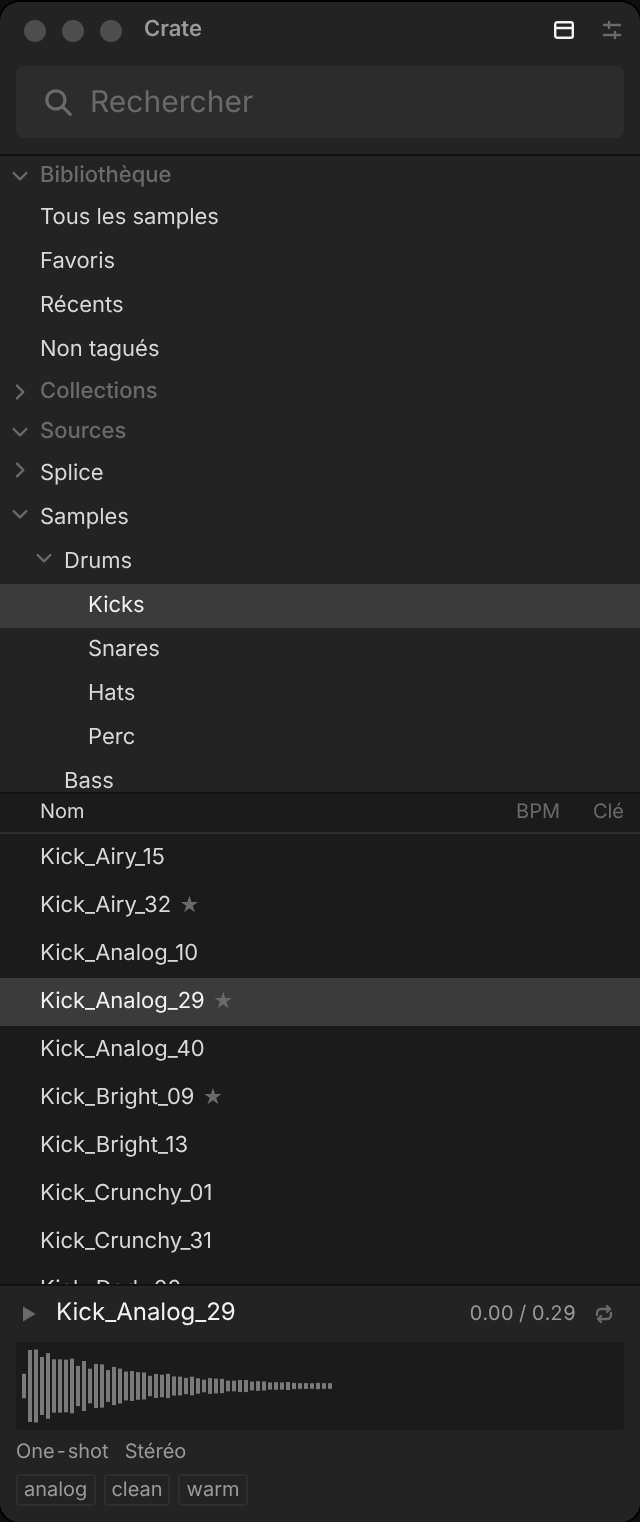
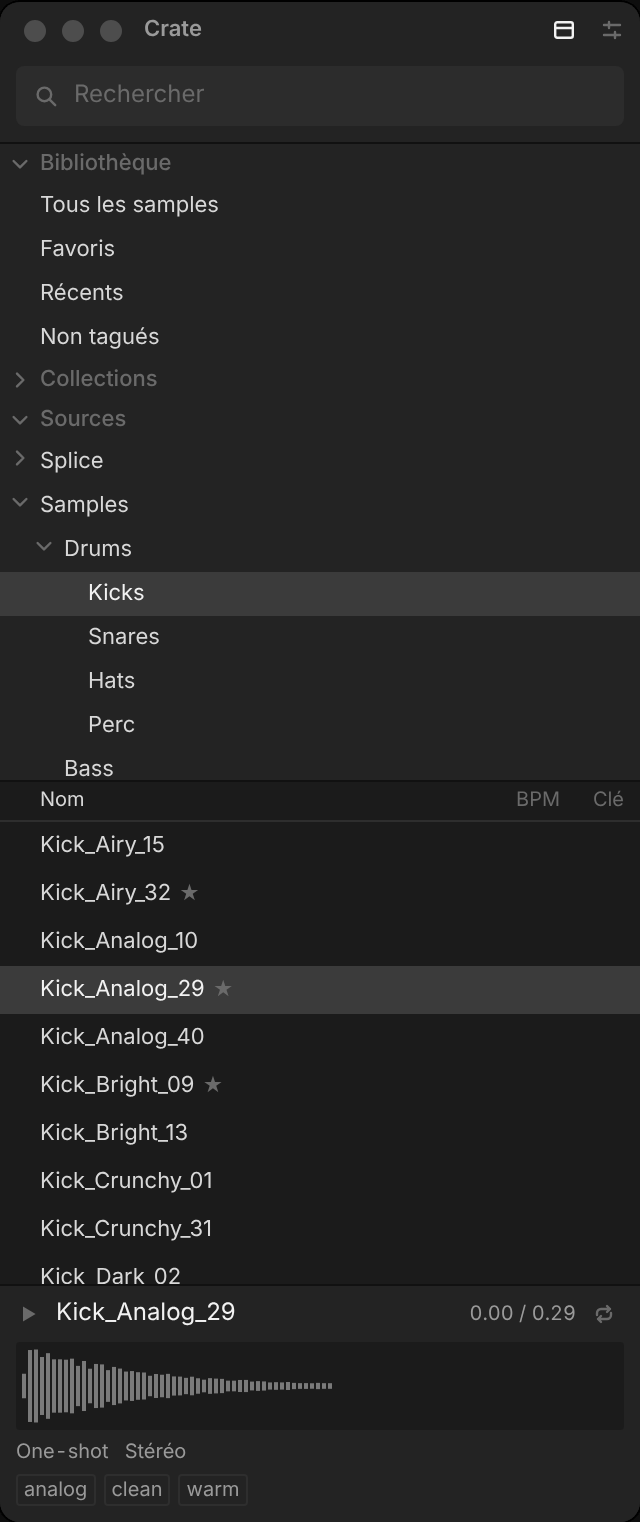
Champ de recherche : 30 px de haut, texte et chips à la taille d'origine
Claude-Session: https://claude.ai/code/session_01TPaLJq8a1d4maHTAR6REF2

Changed region(s): [[0.0, 0.0618, 1.0, 0.8647], [0.8125, 0.525, 0.875, 0.5558], [0.9375, 0.525, 0.9688, 0.5558]]

diff --git a/src/styles/tokens.css b/src/styles/tokens.css
@@ -83,7 +83,6 @@
   --cr-fs-sm: 11px;  /* lignes, items */
   --cr-fs-md: 12px;  /* recherche, titres du tiroir */
   --cr-fs-lg: 13px;  /* états vides */
-  --cr-fs-search: 15px; /* champ de recherche */
   --cr-fw-regular: 400;
   --cr-fw-medium: 500;
   --cr-fw-bold: 600;
@@ -100,8 +99,7 @@
   /* Dimensions fixes */
   --cr-titlebar-h: 28px;
   --cr-traffic-w: 72px;   /* réserve des feux macOS (titleBarStyle Overlay) */
-  --cr-search-h: 36px;   /* grand champ de recherche */
-  --cr-search-icon: 16px;
+  --cr-search-h: 30px;   /* champ de recherche, plus haut que le reste mais texte normal */
   --cr-row-h: 24px;       /* ligne compacte */
   --cr-row-h-wave: 36px;  /* ligne avec mini-waveform */
   --cr-item-h: 22px;      /* item de sidebar */
@@ -109,8 +107,7 @@
   --cr-indent: 12px;      /* retrait par niveau d'arbre */
   --cr-icon: 12px;
   --cr-icon-btn: 20px;
-  --cr-chip-h: 16px;      /* tags */
-  --cr-chip-h-lg: 22px;   /* chips dans la recherche */
+  --cr-chip-h: 16px;      /* chips de requête, tags */
   --cr-mark: 6px;         /* repère de collection */
   --cr-input-min: 24px;
   --cr-sidebar-max: 42%;  /* part max de la colonne prise par la sidebar */

diff --git a/src/styles/bundle.css b/src/styles/bundle.css
@@ -141,7 +141,7 @@
   display: flex;
   align-items: center;
   gap: var(--cr-space-2);
-  padding: 0 var(--cr-space-1) 0 var(--cr-space-3);
+  padding: 0 var(--cr-space-1) 0 var(--cr-space-2);
   background: var(--cr-surface-raised);
   border: var(--cr-border) solid transparent;
   border-radius: var(--cr-radius-lg);
@@ -150,11 +150,6 @@
 
 .cr-search[data-focused] {
   border-color: var(--cr-text-3);
-}
-
-.cr-search__icon {
-  width: var(--cr-search-icon);
-  height: var(--cr-search-icon);
 }
 
 .cr-search__chips {
@@ -170,12 +165,12 @@
 .cr-search__input {
   flex: 1;
   min-width: var(--cr-input-min);
-  height: var(--cr-chip-h-lg);
+  height: var(--cr-chip-h);
   border: 0;
   padding: 0;
   background: none;
   font: inherit;
-  font-size: var(--cr-fs-search);
+  font-size: var(--cr-fs-md);
   color: var(--cr-text-strong);
   user-select: text;
   -webkit-user-select: text;
@@ -198,12 +193,6 @@
   color: var(--cr-text-strong);
   font-size: var(--cr-fs-sm);
   white-space: nowrap;
-}
-
-.cr-search .cr-chip {
-  height: var(--cr-chip-h-lg);
-  padding: 0 var(--cr-space-1);
-  font-size: var(--cr-fs-md);
 }
 
 .cr-chip:hover {

diff --git a/docs/design-system.md b/docs/design-system.md
@@ -32,16 +32,16 @@ Inspiré du browser d'Ableton Live : dense, plat, gris, lisible à 11 px. Une co
 | Accent | `--cr-accent` · `--cr-accent-soft` · `--cr-on-accent` |
 | Système | `--cr-danger` (fichier introuvable, source déconnectée — texte seulement) |
 | Waveform | `--cr-wave` · `--cr-wave-played` · `--cr-wave-mini` |
-| Typo | `--cr-font`, `--cr-font-mono`, tailles `xs 10` · `sm 11` · `md 12` · `lg 13` · `search 15` |
+| Typo | `--cr-font`, `--cr-font-mono`, tailles `xs 10` · `sm 11` · `md 12` · `lg 13` |
 | Espace | `--cr-space-0..6` = 2 · 4 · 8 · 12 · 16 · 24 px |
-| Hauteurs | `--cr-titlebar-h 28` · `--cr-search-h 36` · `--cr-row-h 24` · `--cr-row-h-wave 36` · `--cr-item-h 22` · `--cr-header-h 20` |
+| Hauteurs | `--cr-titlebar-h 28` · `--cr-search-h 30` · `--cr-row-h 24` · `--cr-row-h-wave 36` · `--cr-item-h 22` · `--cr-header-h 20` |
 
 ## Composants
 
 | Composant | Classe | États | Notes |
 | --- | --- | --- | --- |
 | PanelShell | `cr-panel`, `cr-titlebar` | `data-density` | Barre titre overlay : 72 px réservés aux feux macOS. Container query `panel`. |
-| SearchField | `cr-search` | `data-focused` | Grand champ (36 px, texte 15 px) : c'est l'élément principal du panneau. Chips + champ. ⌫ au début supprime la dernière chip, Échap efface, ↓ / ⏎ va dans la liste. |
+| SearchField | `cr-search` | `data-focused` | Champ plus haut que le reste (30 px), texte à 12 px. Chips + champ. ⌫ au début supprime la dernière chip, Échap efface, ↓ / ⏎ va dans la liste. |
 | QueryChip | `cr-chip` | `data-kind=tag/filter/exclude`, `data-pending` | Clé en `text-2`, valeur en `text-strong`. Clic = repasser en édition. |
 | Autocomplete | `cr-ac` | `data-active` sur l'item | Après `#`, `key:`, `in:`. ↑↓ ⏎/Tab, Échap ferme. |
 | ScanStatus | `cr-scan` | — | Barre de progression de 1 px en accent sous le libellé. |
